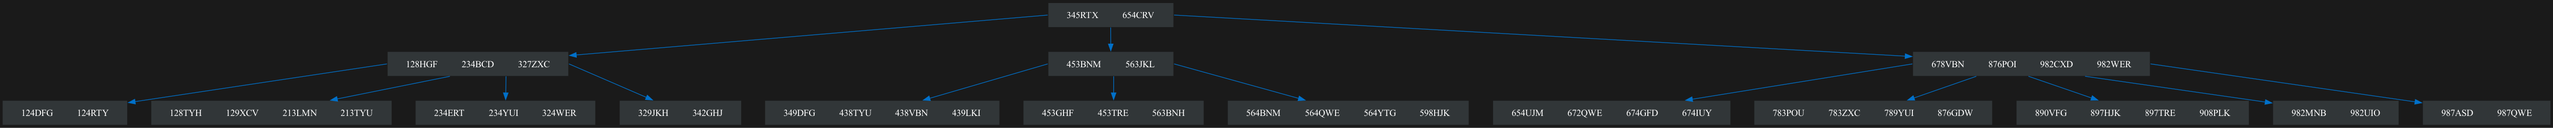
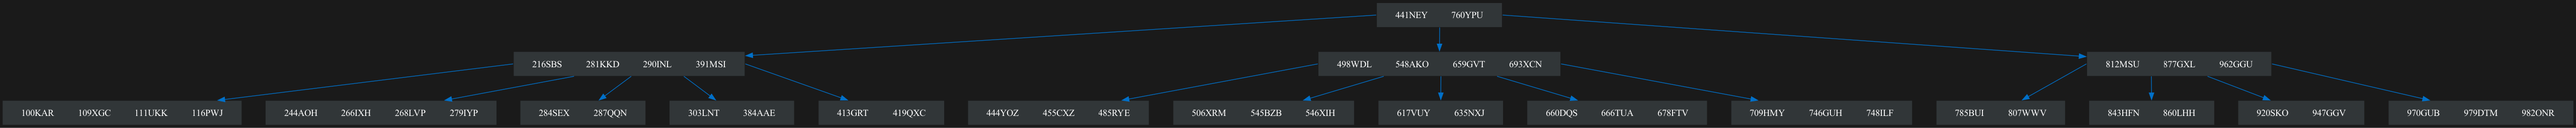
Lista de adyacencia

diff --git a/src/frontend/ventana.py b/src/frontend/ventana.py
@@ -3,6 +3,8 @@ from src.classes.cliente import cliente
 from src.structs.listaCircular.nodoListaCircular import nodoListaCircular
 from src.structs.arbolB.arbolB import ArbolB
 from src.classes.vehiculo import vehiculo
+from src.structs.listaAdyacencia.listaAdyacencia import listaAdyacencia
+from src.classes.ruta import ruta
 import tkinter as tk
 from tkinter import Menu, messagebox, Frame, Label, Button, ttk
 from PIL import Image, ImageTk
@@ -10,6 +12,7 @@ from tkinter.filedialog import askopenfilename
 
 clientes = listaCircular()
 vehiculos = ArbolB(5)
+destinos = listaAdyacencia()
 
 def reiniciar():
     info_label.place_forget()
@@ -101,6 +104,40 @@ def carga_masiva_vehiculos():
     archivo = askopenfilename(title="Seleccionar archivo de texto", filetypes=[("Archivos de texto", "*.txt")])
     if archivo:
         cargar_vehiculos_desde_texto(archivo)
+
+def cargar_rutas_desde_texto(ruta_archivo):
+    try:
+        with open(ruta_archivo, mode='r') as archivo:
+            lineas = archivo.readlines()
+            
+            for linea in lineas:
+                # Eliminar los saltos de línea y los espacios extras
+                linea = linea.strip().rstrip('%')
+                
+                if not linea:  # Si la línea está vacía, la ignoramos
+                    continue
+                
+                # Separar los campos por coma y espacio (formato: campo1, campo2, ...)
+                campos = [campo.strip() for campo in linea.split('/')]
+                
+                if len(campos) != 3:
+                    messagebox.showerror("Error", f"Formato incorrecto en la línea: {linea}")
+                    continue
+                
+                origen, destino, tiempo_ruta = campos
+                
+                # Crear un nuevo vehiculo y agregarlo a la lista circular
+                nueva_ruta = ruta(origen, destino, tiempo_ruta)
+                destinos.insertar(nueva_ruta)
+                
+            messagebox.showinfo("Carga Masiva", "Vehiculos cargados exitosamente.")
+    except Exception as e:
+        messagebox.showerror("Error", f"Hubo un error al cargar los vehiculos: {e}")
+    
+def carga_masiva_rutas():
+    archivo = askopenfilename(title="Seleccionar archivo de texto", filetypes=[("Archivos de texto", "*.txt")])
+    if archivo:
+        cargar_rutas_desde_texto(archivo)
 
 def load_routes():
     messagebox.showinfo("Cargar Rutas", "Cargando archivo de rutas y generando el grafo...")

diff --git a/src/structs/Cola/Cola.py b/src/structs/Cola/Cola.py
@@ -1,0 +1,55 @@
+from src.structs.Cola.NodoCola import NodoCola
+from src.classes.vertice import Vertice
+
+class Cola:
+    
+    def __init__(self):
+        self.__cabeza = None
+        self.__cola = None
+        self.size = 0
+    
+    def encolar(self, valor):
+        nuevo = NodoCola(valor)
+        if self.size == 0:
+            self.__cabeza = nuevo
+            self.__cola = nuevo
+            self.size += 1
+            return
+        self.__cola.setSiguiente(nuevo)
+        self.__cola = nuevo
+        self.size += 1
+        
+    def desencolar(self) -> NodoCola:
+        if self.size == 0:
+            return None
+        valor = self.__cabeza.getValor()
+        self.__cabeza = self.__cabeza.getSiguiente()
+        self.size -= 1
+        return valor
+    
+    def ordenar(self):
+        if self.size == 0:
+            print ("La cola esta vacia")
+            return
+        actual: NodoCola[Vertice] = self.__cabeza
+        
+        while actual != None:
+            siguiente: NodoCola[Vertice] = actual.getSiguiente()
+            
+            while siguiente != None:
+                if actual.getValor().get_peso_acumulado() > siguiente.getValor().get_peso_acumulado():
+                    temp: Vertice = siguiente.getValor()
+                    siguiente.setValor(actual.getValor())
+                    actual.setValor(temp)
+                    
+                siguiente = siguiente.getSiguiente()
+            
+            actual = actual.getSiguiente()
+            
+    def buscar(self, valor) -> NodoCola:
+        aux: NodoCola[Vertice] = self.__cabeza
+        while aux != None:
+            if aux.getValor().getValorVertice() == valor:
+                return aux
+            aux = aux.getSiguiente()
+        return None

diff --git a/src/structs/listaAdyacencia/listaAdyacencia.py b/src/structs/listaAdyacencia/listaAdyacencia.py
@@ -1,0 +1,39 @@
+from src.structs.listaSimple.listaSimple import ListaSimple
+from src.structs.listaSimple.NodoListaSimple import NodoListaSimple
+from src.classes.vertice import Vertice
+from src.structs.Cola.Cola import Cola
+from src.utils.manejadorArchivos import leer_archivo
+from src.classes.ruta import ruta
+from copy import copy
+
+class listaAdyacencia:
+    
+    def __init__(self):
+        self.vertices: ListaSimple[Vertice] = ListaSimple()
+        
+    def insertar(self, ruta: ruta):
+        vertice: Vertice = self.buscar_vertice(ruta.getOrigen())
+        if vertice != None:
+            vertice.agregar_vecino(ruta.getDestino(), ruta.getTiempoRuta())
+            return
+        
+        vertice = Vertice(ruta.getOrigen())
+        vertice.agregar_vecino(ruta.getDestino(), ruta.getTiempoRuta())
+        
+        self.vertices.insertar(vertice)
+            
+    def buscar_vertice(self, valor: str) -> Vertice:
+        aux: NodoListaSimple[Vertice] = self.vertices.getCabeza()
+    
+        while aux != None:
+            if aux.getValor().getValorVertice() == valor:
+                return aux.getValor()
+            aux = aux.getSiguiente()
+        return None
+    
+    def get_ruta(self, origen:str, destino:str) -> ListaSimple:
+        ruta: ListaSimple[Vertice] = ListaSimple()
+        nodos_visitados: Cola = Cola()
+        nodos: Cola = Cola()
+        
+        

diff --git a/src/classes/vertice.py b/src/classes/vertice.py
@@ -1,0 +1,38 @@
+from src.structs.listaSimple.listaSimple import ListaSimple
+from src.structs.listaSimple.NodoListaSimple import NodoListaSimple
+
+class Vertice:
+    
+    def __init__(self, valor: str, peso: int=0, padre = None):
+        self.__valor: str = valor
+        self.__peso: int = peso
+        self.__padre: Vertice = padre
+        self.__vecinos: ListaSimple[Vertice] = ListaSimple()
+        self.__peso_acumulado: int = 0
+        
+    def agregar_vecino(self, valor: str, peso: int):
+        vecino: Vertice = Vertice(valor, peso)
+        vecino.set_peso_acumulado(self.peso)
+        
+        self.vecinos.insertar(vecino)
+        
+    def set_peso_acumulado(self, peso: int):
+        self.__peso_acumulado += peso
+        
+    def get_peso_acumulado(self):
+        return self.__peso_acumulado
+    
+    def getValorVertice(self):
+        return self.__valor
+    
+    def getPesoVertice(self):
+        return self.__peso
+    
+    def getPadre(self):
+        return self.__padre
+    
+    def getVecinos(self):
+        return self.__vecinos
+    
+    def setValorVertice(self, valor: str):
+        self.__valor = valor

diff --git a/src/structs/listaSimple/listaSimple.py b/src/structs/listaSimple/listaSimple.py
@@ -1,0 +1,20 @@
+from src.structs.listaSimple.NodoListaSimple import NodoListaSimple
+
+class ListaSimple:
+    
+    def __init__(self):
+        self.__cabeza = None
+        self.size = 0
+        
+    def insertar(self, valor)->None:
+        nuevo = NodoListaSimple(valor)
+        if self.size == 0:
+            self.cabeza = nuevo
+            return
+        else:
+            nuevo.setSiguiente(self.cabeza)
+            self.cabeza = nuevo
+        self.size += 1
+        
+    def getCabeza(self):
+        return self.__cabeza

diff --git a/src/structs/Cola/NodoCola.py b/src/structs/Cola/NodoCola.py
@@ -1,0 +1,20 @@
+class NodoCola:
+    
+    def __init__(self, valor):
+        self.__valor = valor
+        self.__siguiente = None
+        
+    def getValor(self):
+        return self.__valor
+    
+    def setValor(self, valor):
+        self.__valor = valor
+        
+    def getSiguiente(self):
+        return self.__siguiente
+    
+    def setSiguiente(self, siguiente):
+        self.__siguiente = siguiente
+        
+    def __str__(self):
+        return str(self.__valor)

diff --git a/src/structs/listaSimple/NodoListaSimple.py b/src/structs/listaSimple/NodoListaSimple.py
@@ -1,0 +1,20 @@
+class NodoListaSimple:
+    
+    def __init__(self, valor):
+        self.__valor = valor
+        self.__siguiente = None
+        
+    def getValor(self):
+        return self.__valor
+    
+    def setValor(self, valor):
+        self.__valor = valor
+        
+    def getSiguiente(self):
+        return self.__siguiente
+    
+    def setSiguiente(self, siguiente):
+        self.__siguiente = siguiente
+
+    def __str__(self):
+        return str

diff --git a/src/utils/manejadorArchivos.py b/src/utils/manejadorArchivos.py
@@ -1,0 +1,4 @@
+def leer_archivo(path:str) -> str:
+    
+    with open(path, 'r') as file:
+        return file.read()
